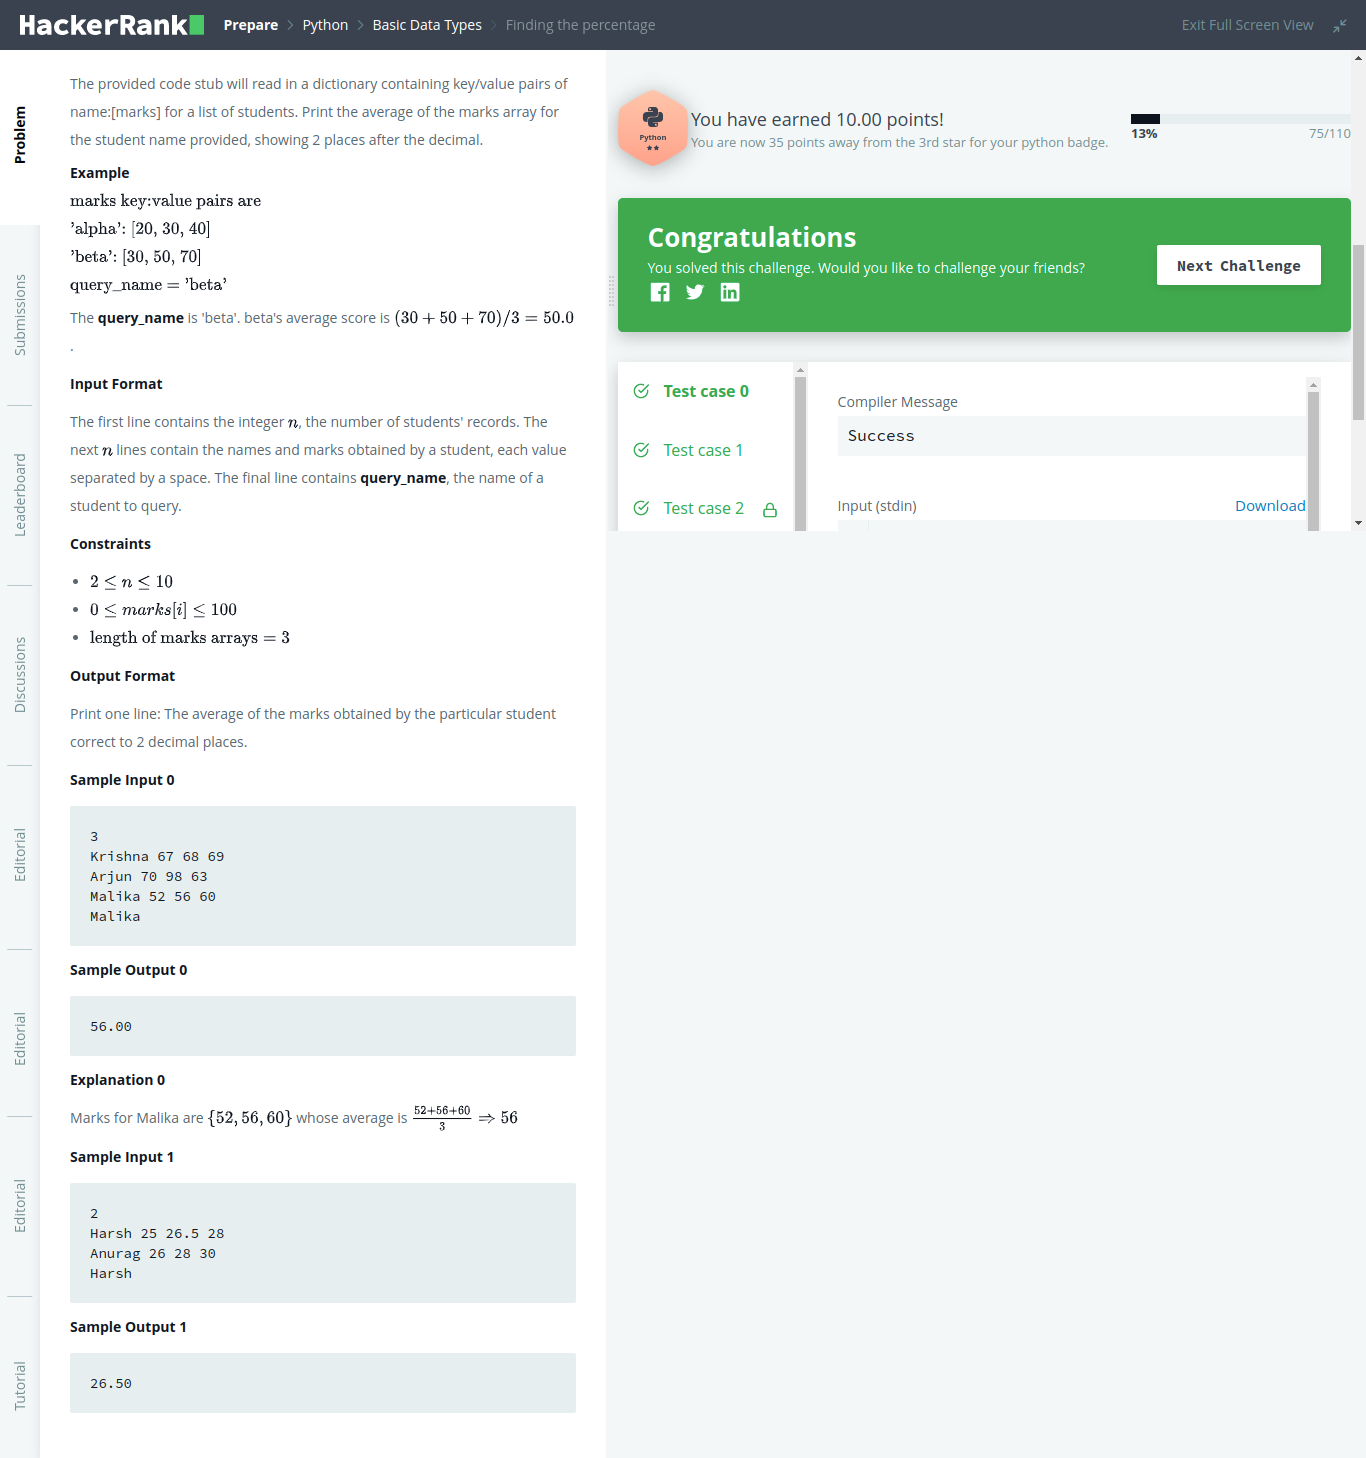
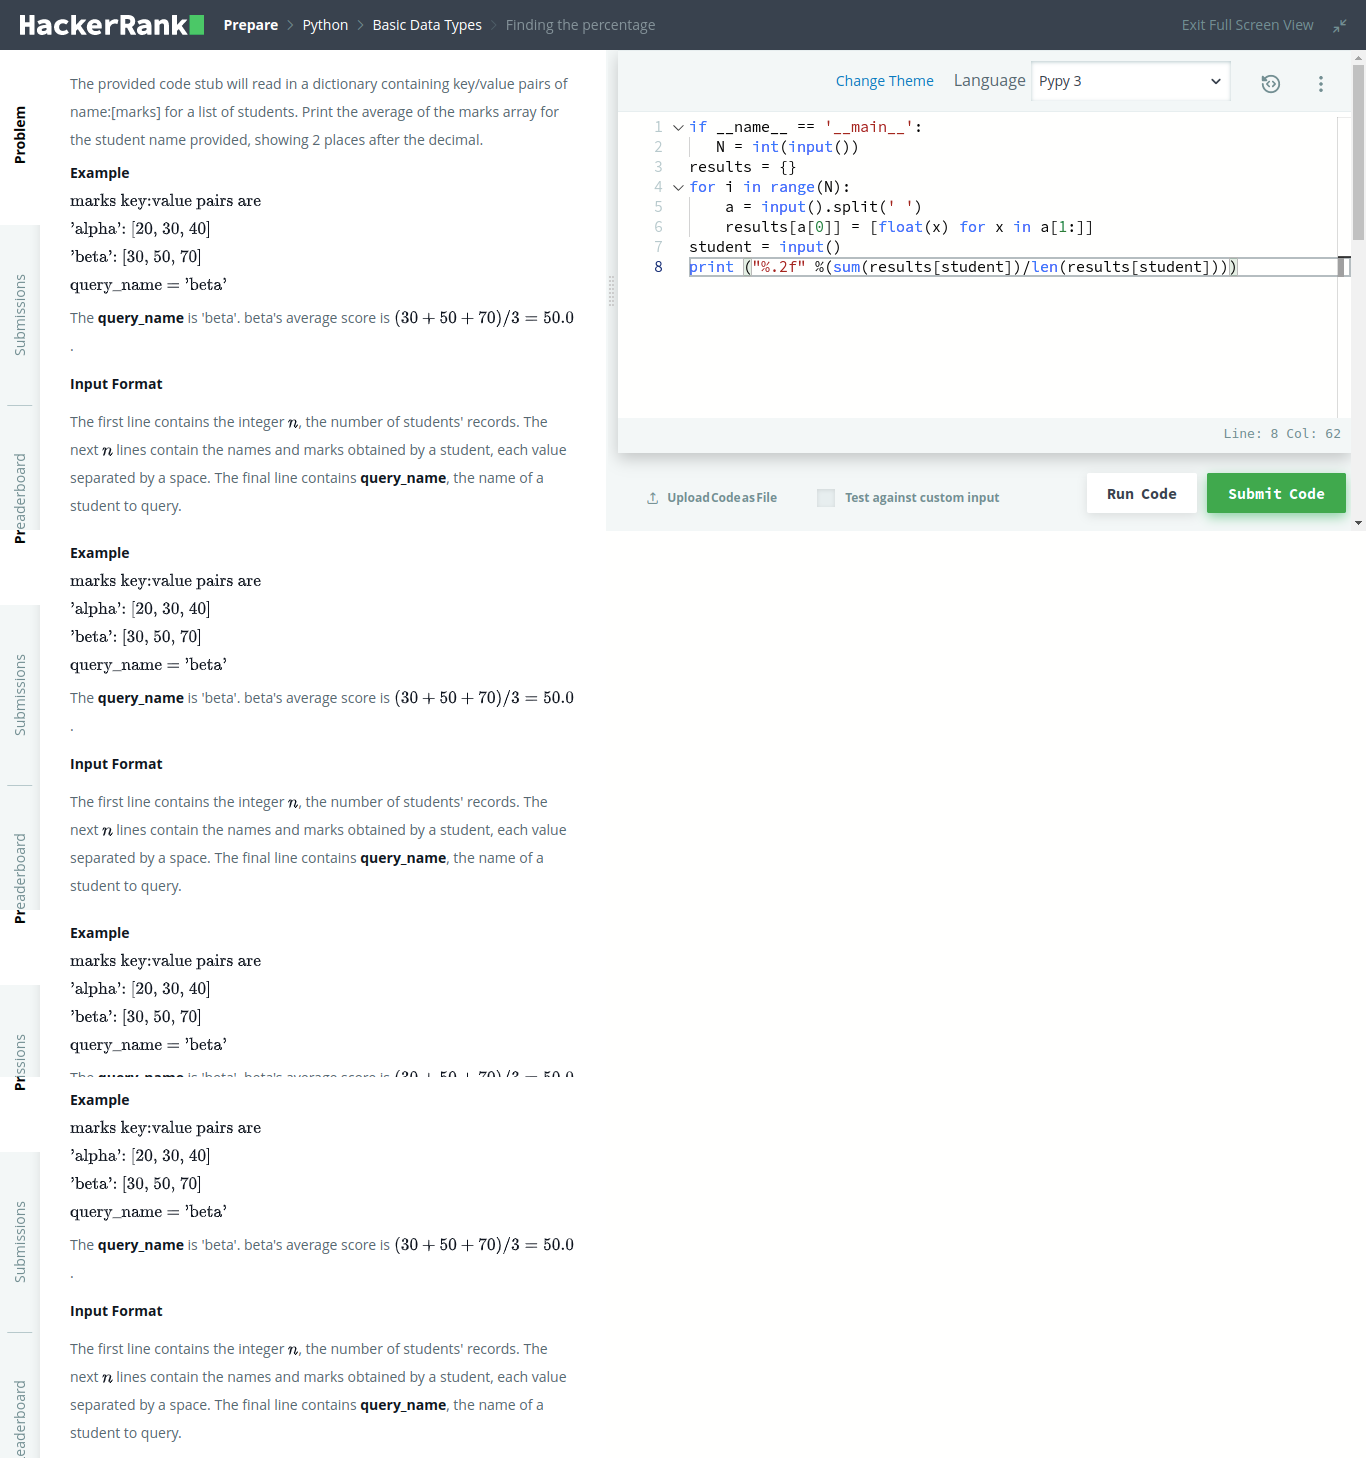
Daily Commit

diff --git a/27-May-2022/Hacker_Rank/README.md b/27-May-2022/Hacker_Rank/README.md
@@ -7,3 +7,6 @@
 - 1: Find Percentage of give name
 
 ![Alt text](find_percentage.png?raw="True")
+
+
+![Alt text](find_percentage_1.png?raw="True")
